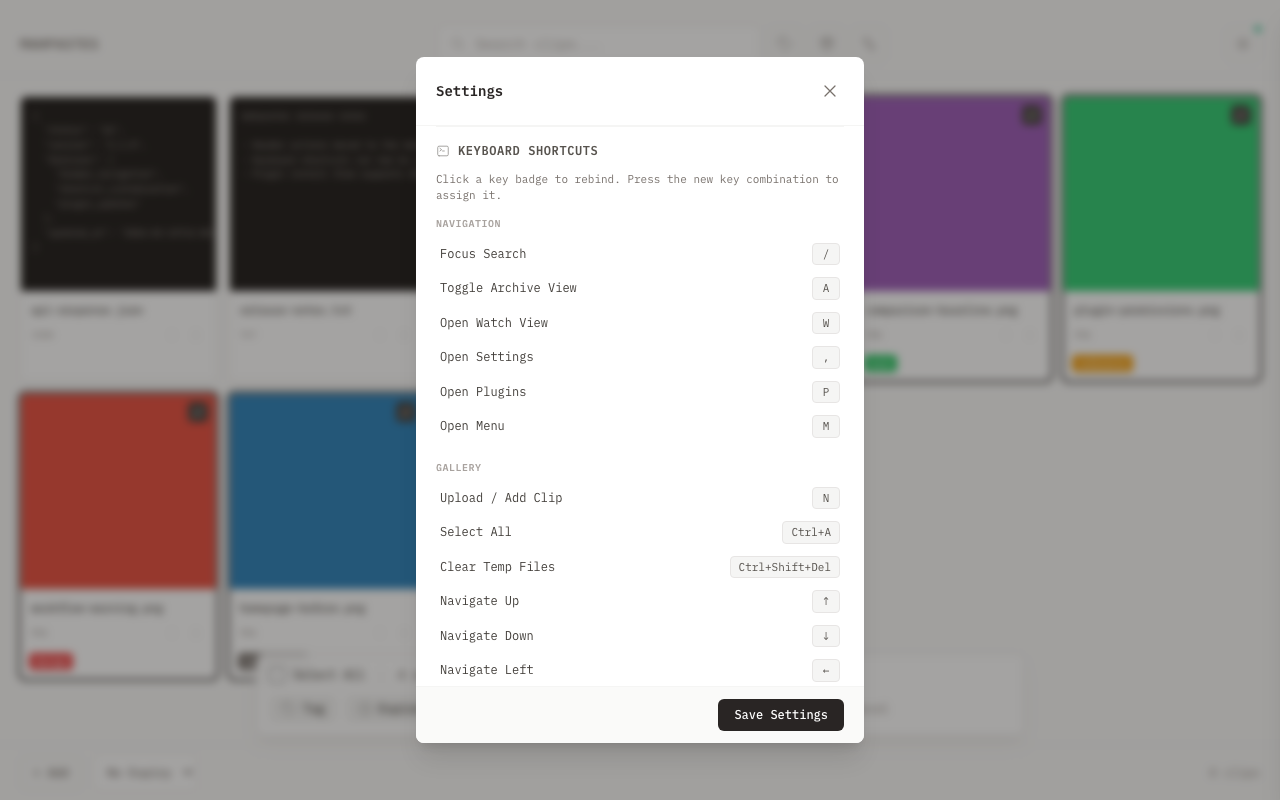
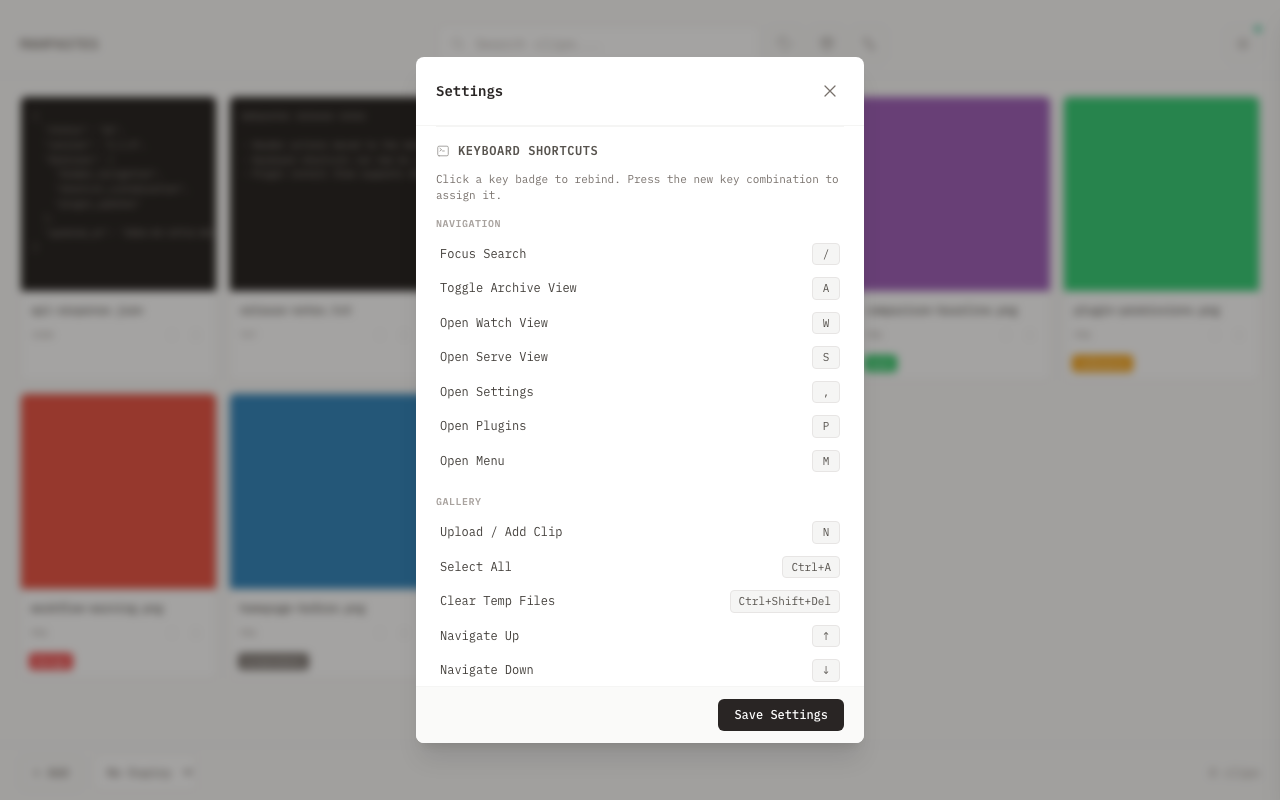
docs: retake all screenshots and add serve/API captures

diff --git a/e2e/tests/screenshots/capture.spec.ts b/e2e/tests/screenshots/capture.spec.ts
@@ -212,6 +212,45 @@ test('capture documentation screenshots', async ({ app, tempDir }) => {
   await app.page.screenshot({ path: path.join(SCREENSHOTS_DIR, 'watch-folders.png') });
   await app.closeWatchView();
 
+  // === 10b. Serve view screenshot ===
+  await app.switchToServeView();
+  // Add a tag to the serve list so the view isn't empty
+  await app.page.evaluate(async () => {
+    // @ts-ignore - Wails runtime
+    const tags = await window.go.main.App.GetTags();
+    if (tags && tags.length > 0) {
+      // @ts-ignore - access configuredEntries from serve.js
+      if (typeof configuredEntries !== 'undefined') {
+        const t = tags[0];
+        configuredEntries.set(t.id, { tag_id: t.id, tag_name: t.name, bind_all: false });
+        if (tags.length > 1) {
+          const t2 = tags[1];
+          configuredEntries.set(t2.id, { tag_id: t2.id, tag_name: t2.name, bind_all: false });
+        }
+      }
+      // @ts-ignore
+      if (typeof loadServeStatus === 'function') await loadServeStatus();
+    }
+  });
+  await app.page.waitForTimeout(300);
+  await app.page.screenshot({ path: path.join(SCREENSHOTS_DIR, 'serve-view.png') });
+  // Switch back to clips view
+  await app.page.evaluate(() => {
+    // @ts-ignore
+    if (window.__testHelpers?.switchView) window.__testHelpers.switchView('clips');
+  });
+  await app.page.waitForTimeout(200);
+
+  // === 10c. API settings modal screenshot ===
+  await app.openDrawer();
+  await app.page.locator('#open-api-btn').click();
+  await app.page.waitForSelector('[data-testid="api-modal"].opacity-100', { timeout: 5000 });
+  await app.page.waitForTimeout(300);
+  await app.page.screenshot({ path: path.join(SCREENSHOTS_DIR, 'api-settings.png') });
+  // Close API modal
+  await app.page.locator('#api-modal-close').click();
+  await app.page.waitForTimeout(200);
+
   // === 11. Settings screenshot ===
   await app.openSettingsModal();
   await expect(app.page.locator('[data-testid="create-backup-btn"]')).toBeVisible();
